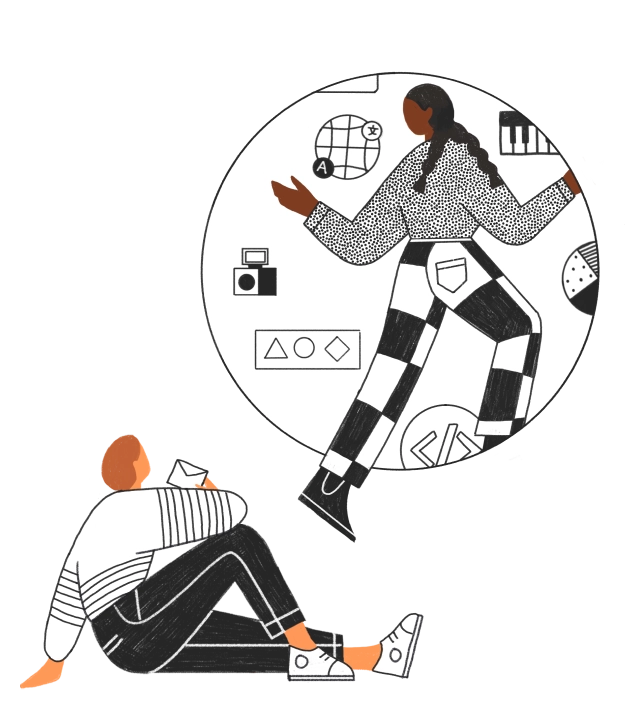
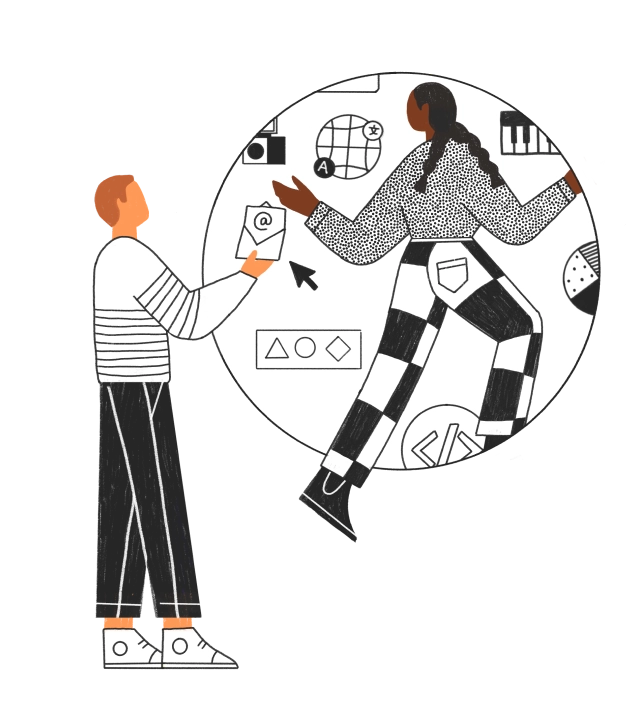
leaving save:12/12/2024

diff --git a/src/pages/SignupPage.tsx b/src/pages/SignupPage.tsx
@@ -1,0 +1,38 @@
+import Signup from "@/components/auth/Signup";
+import BodyBlock from "@/components/base/BodyBlock";
+import NavbarOnlyLogo from "@/components/extended/NavbarOnlyLogo";
+import SignupArt from "./.././assets/SignupArt.png";
+import { Link } from "react-router-dom";
+
+const SignupPage = () => {
+    return (
+        <>
+            <NavbarOnlyLogo />
+            <BodyBlock>
+                <div className="mx-2 flex flex-col-reverse min-h-fit h-[90vh] md:mx-52 lg:flex lg:flex-row justify-center items-baseline border gap-5">
+                <div className="w-full flex justify-center items-center mt-5  border ">
+                        <img src={SignupArt} alt="login Art peice" />
+                    </div>
+
+                    <div className="m-auto mt-20 w-fit border  ">
+                        <h2 className="text-2xl font-bold mb-5 text-center">
+                            Sign up and start learning
+                        </h2>
+                        <Signup />
+                        <p className="text-center mt-5 font-medium">
+                            Already have an account?
+                            <Link
+                                to="/login"
+                                className="font-bold underline ms-1"
+                            >
+                                login
+                            </Link>
+                        </p>
+                    </div>
+                </div>
+            </BodyBlock>
+        </>
+    );
+};
+
+export default SignupPage;

diff --git a/src/main.tsx b/src/main.tsx
@@ -7,6 +7,7 @@ import SignInWithGoogle from "./components/auth/SignInWithGoogle";
 import { Provider } from "react-redux";
 import store from "./redux/store";
 import LoginPage from "./pages/LoginPage";
+import SignupPage from "./pages/SignupPage";
 
 const appRouter = createBrowserRouter([
     {
@@ -16,6 +17,9 @@ const appRouter = createBrowserRouter([
     {
         path: "/login",
         element: <LoginPage />,
+    },{
+        path: "/signup",
+        element: <SignupPage />,
     },
     {
         path: "/test",

diff --git a/src/pages/LoginPage.tsx b/src/pages/LoginPage.tsx
@@ -30,7 +30,7 @@ const LoginPage = () => {
                         </p>
                     </div>
 
-                    <div className="w-full flex justify-center items-center border mt-20 ">
+                    <div className="w-full flex justify-center items-center border mt-5 ">
                         <img src={loginArt} alt="login Art peice" />
                     </div>
                 </div>
